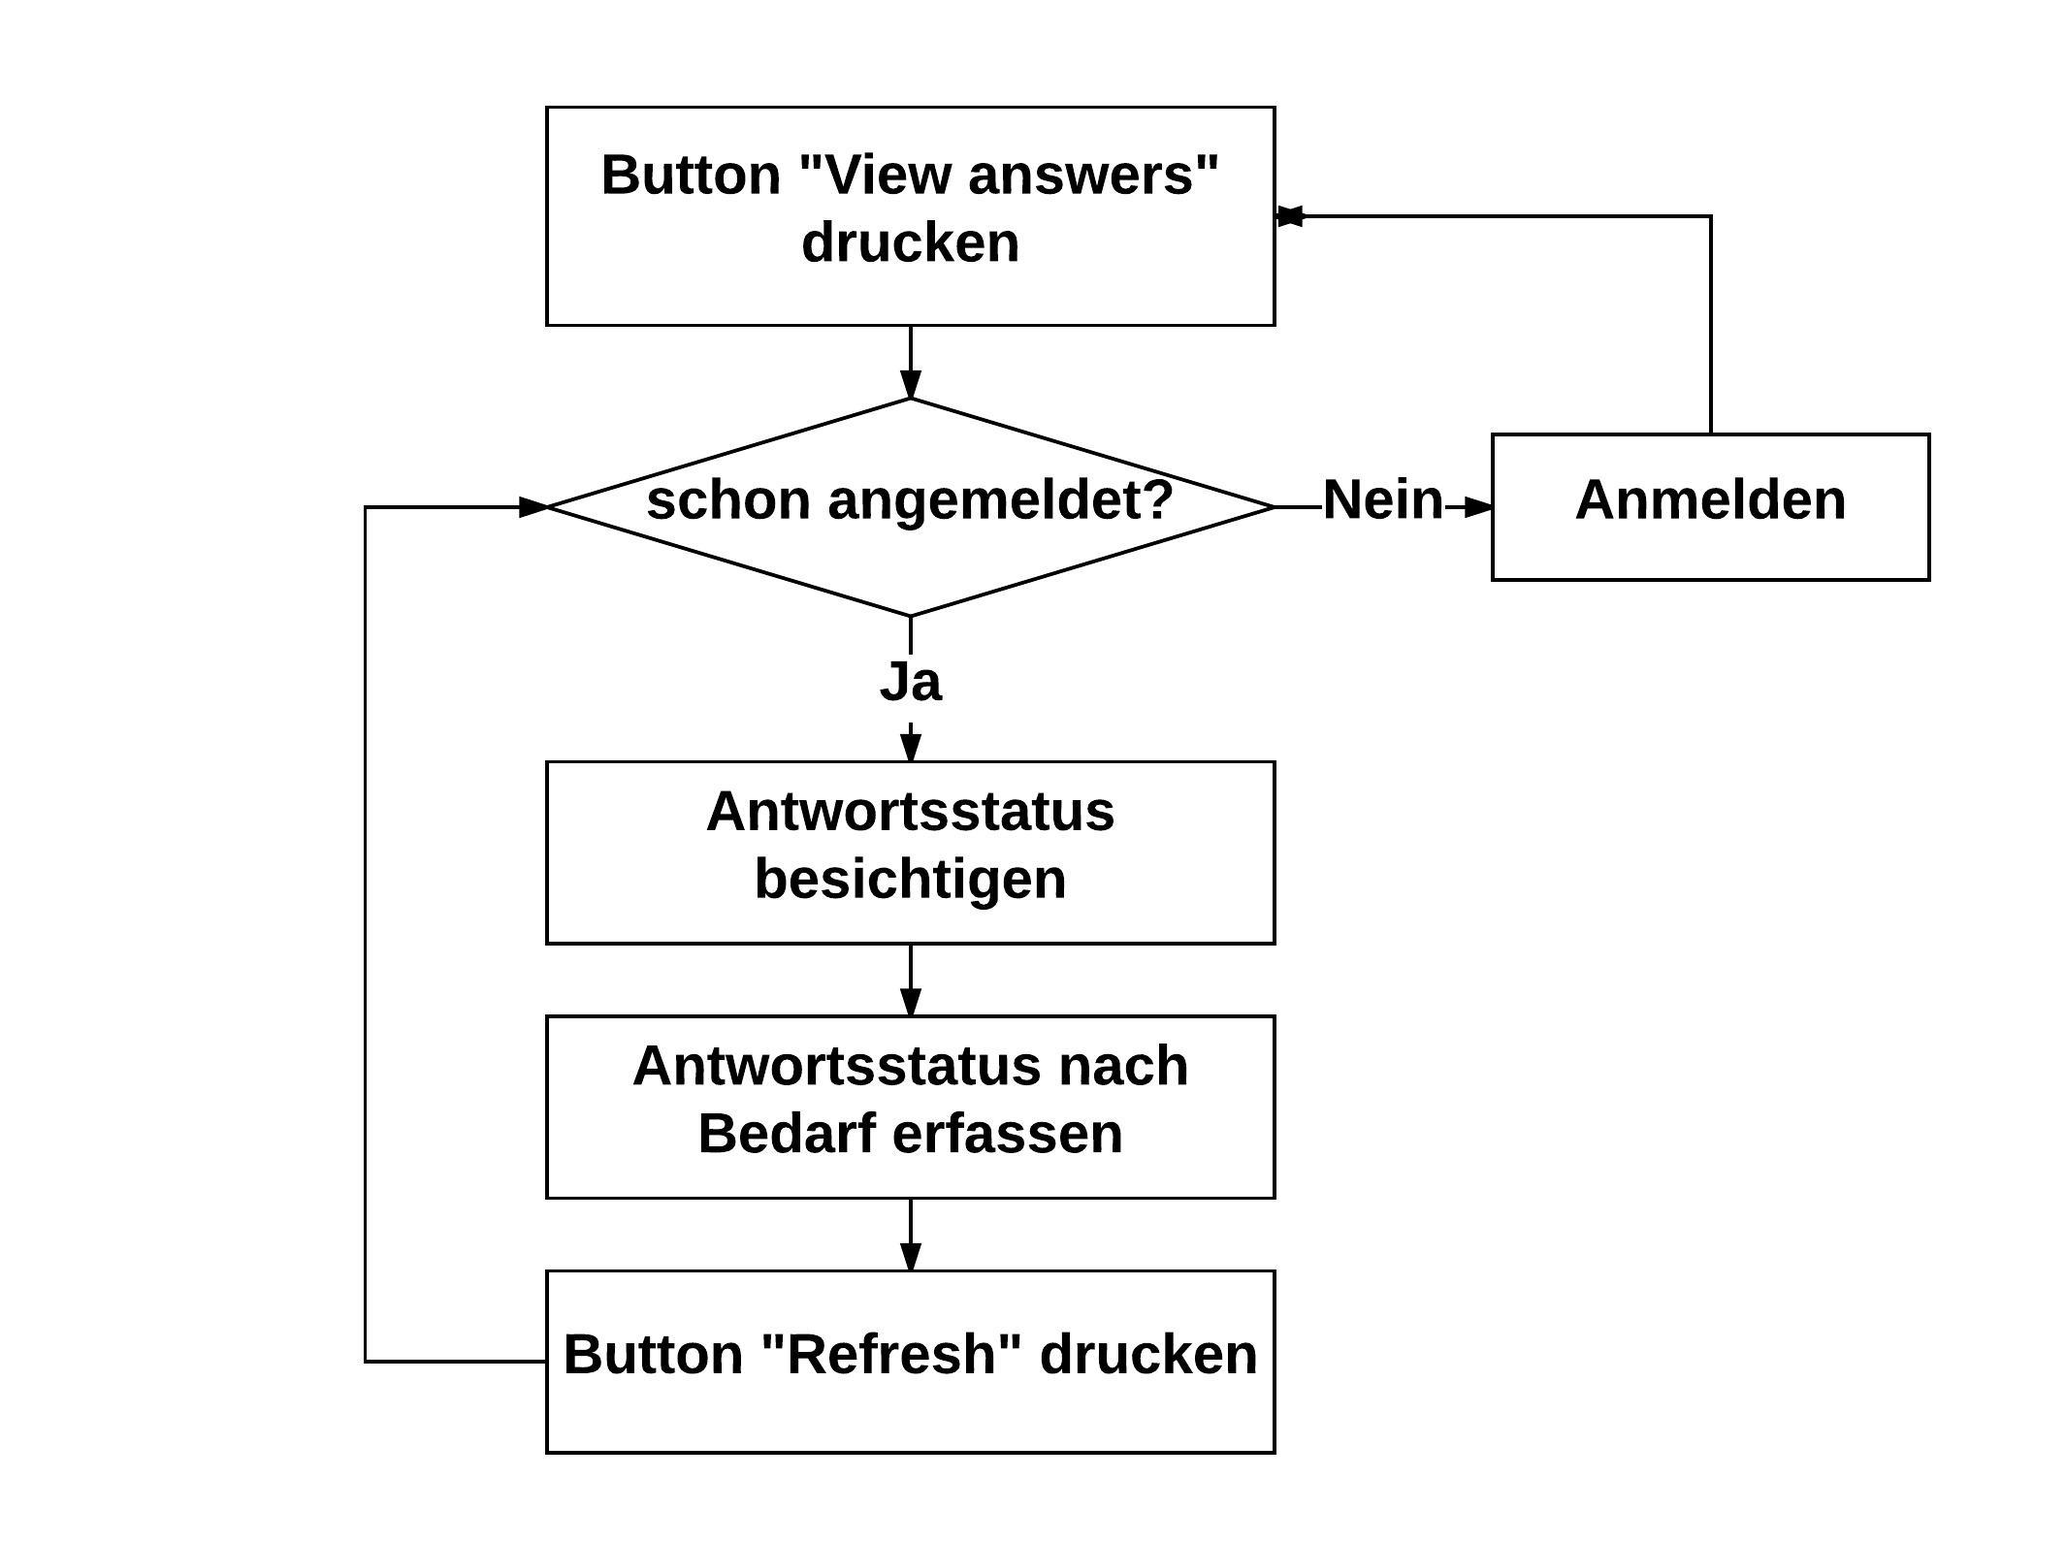
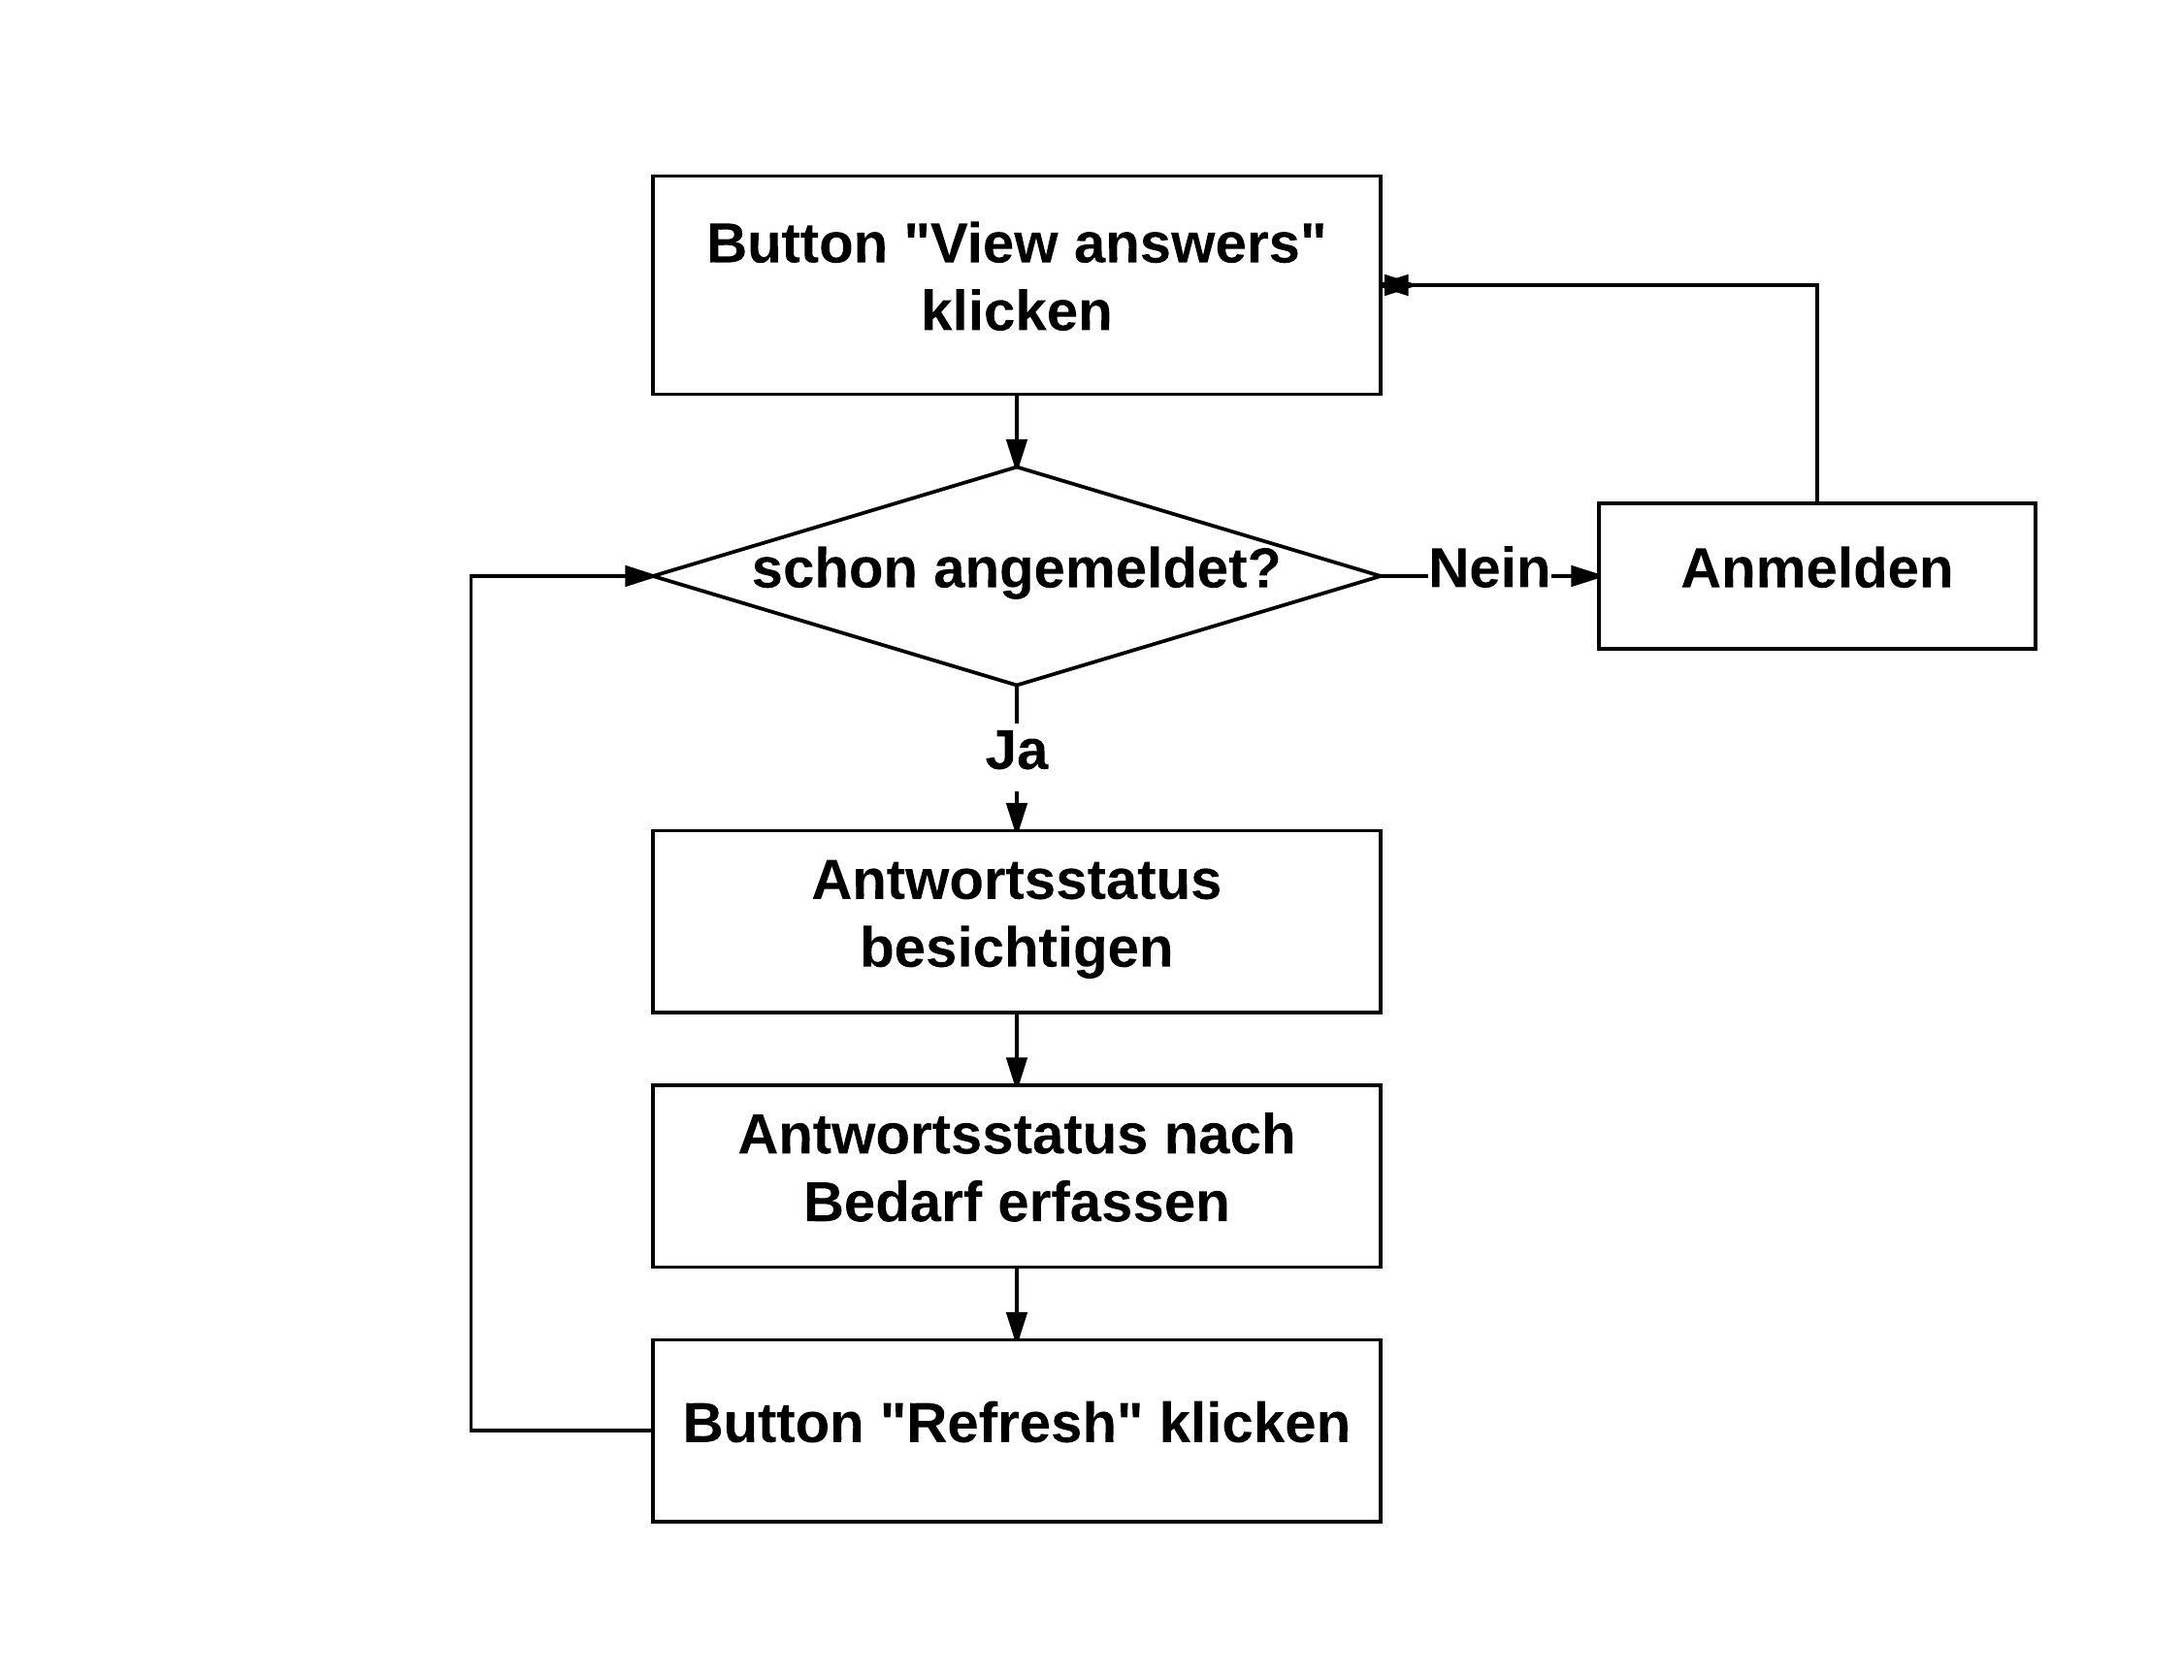
improved Antwortsstatus_besichtigen.jpeg und FA /F40/ /F45/

Changed region(s): [[0.2169, 0.0616, 0.9296, 0.9553], [0.5887, 0.1849, 0.6197, 0.2157], [0.2789, 0.1849, 0.3099, 0.2157]]

diff --git a/Pflichtenheft/pflichtenheft.tex b/Pflichtenheft/pflichtenheft.tex
@@ -290,10 +290,10 @@
 	            \par \textbf{Auslösendes Ereignis: }Der Versuchsleiter versucht, wieder anzumelden.
 	            \par \textbf{Beschreibung: }
 	            \begin{enumerate}
-	            	\item Drucken von Button ``View answers''
+	            	\item Klicken von Button ``View answers''
 	            	\item Zeigen des neuen Antwortsstatus beim erfolgreichen Anmelden
 	            	\item Erfassen von Antwortsstatus nach Bedarf
-	            	\item Laden des neuen Antwortsstatus beim Drucken von Button ``Refresh''
+	            	\item Laden des neuen Antwortsstatus beim Klicken von Button ``Refresh''
 	            \end{enumerate}
 	            \par \textbf{Erweiterung: }
 	            \par \textbf{Alternativen: }
@@ -319,9 +319,9 @@
 	            \end{itemize}
 	            \par \textbf{Beschreibung: }
 	            \begin{enumerate}
-	            	\item Drucken von Button ``Send Feedback / Motivation''
+	            	\item Klicken von Button ``Send Feedback / Motivation''
 	            	\item Schreiben von Feedback (Motivation)
-	            	\item Drucken von Button ``Send'', um die Feedbacks an allen Probanden zu senden.
+	            	\item Klicken von Button ``Send'', um die Feedbacks an allen Probanden zu senden.
 	            \end{enumerate}
 	            \par \textbf{Erweiterung: }
 	            \par \textbf{Alternativen: }
